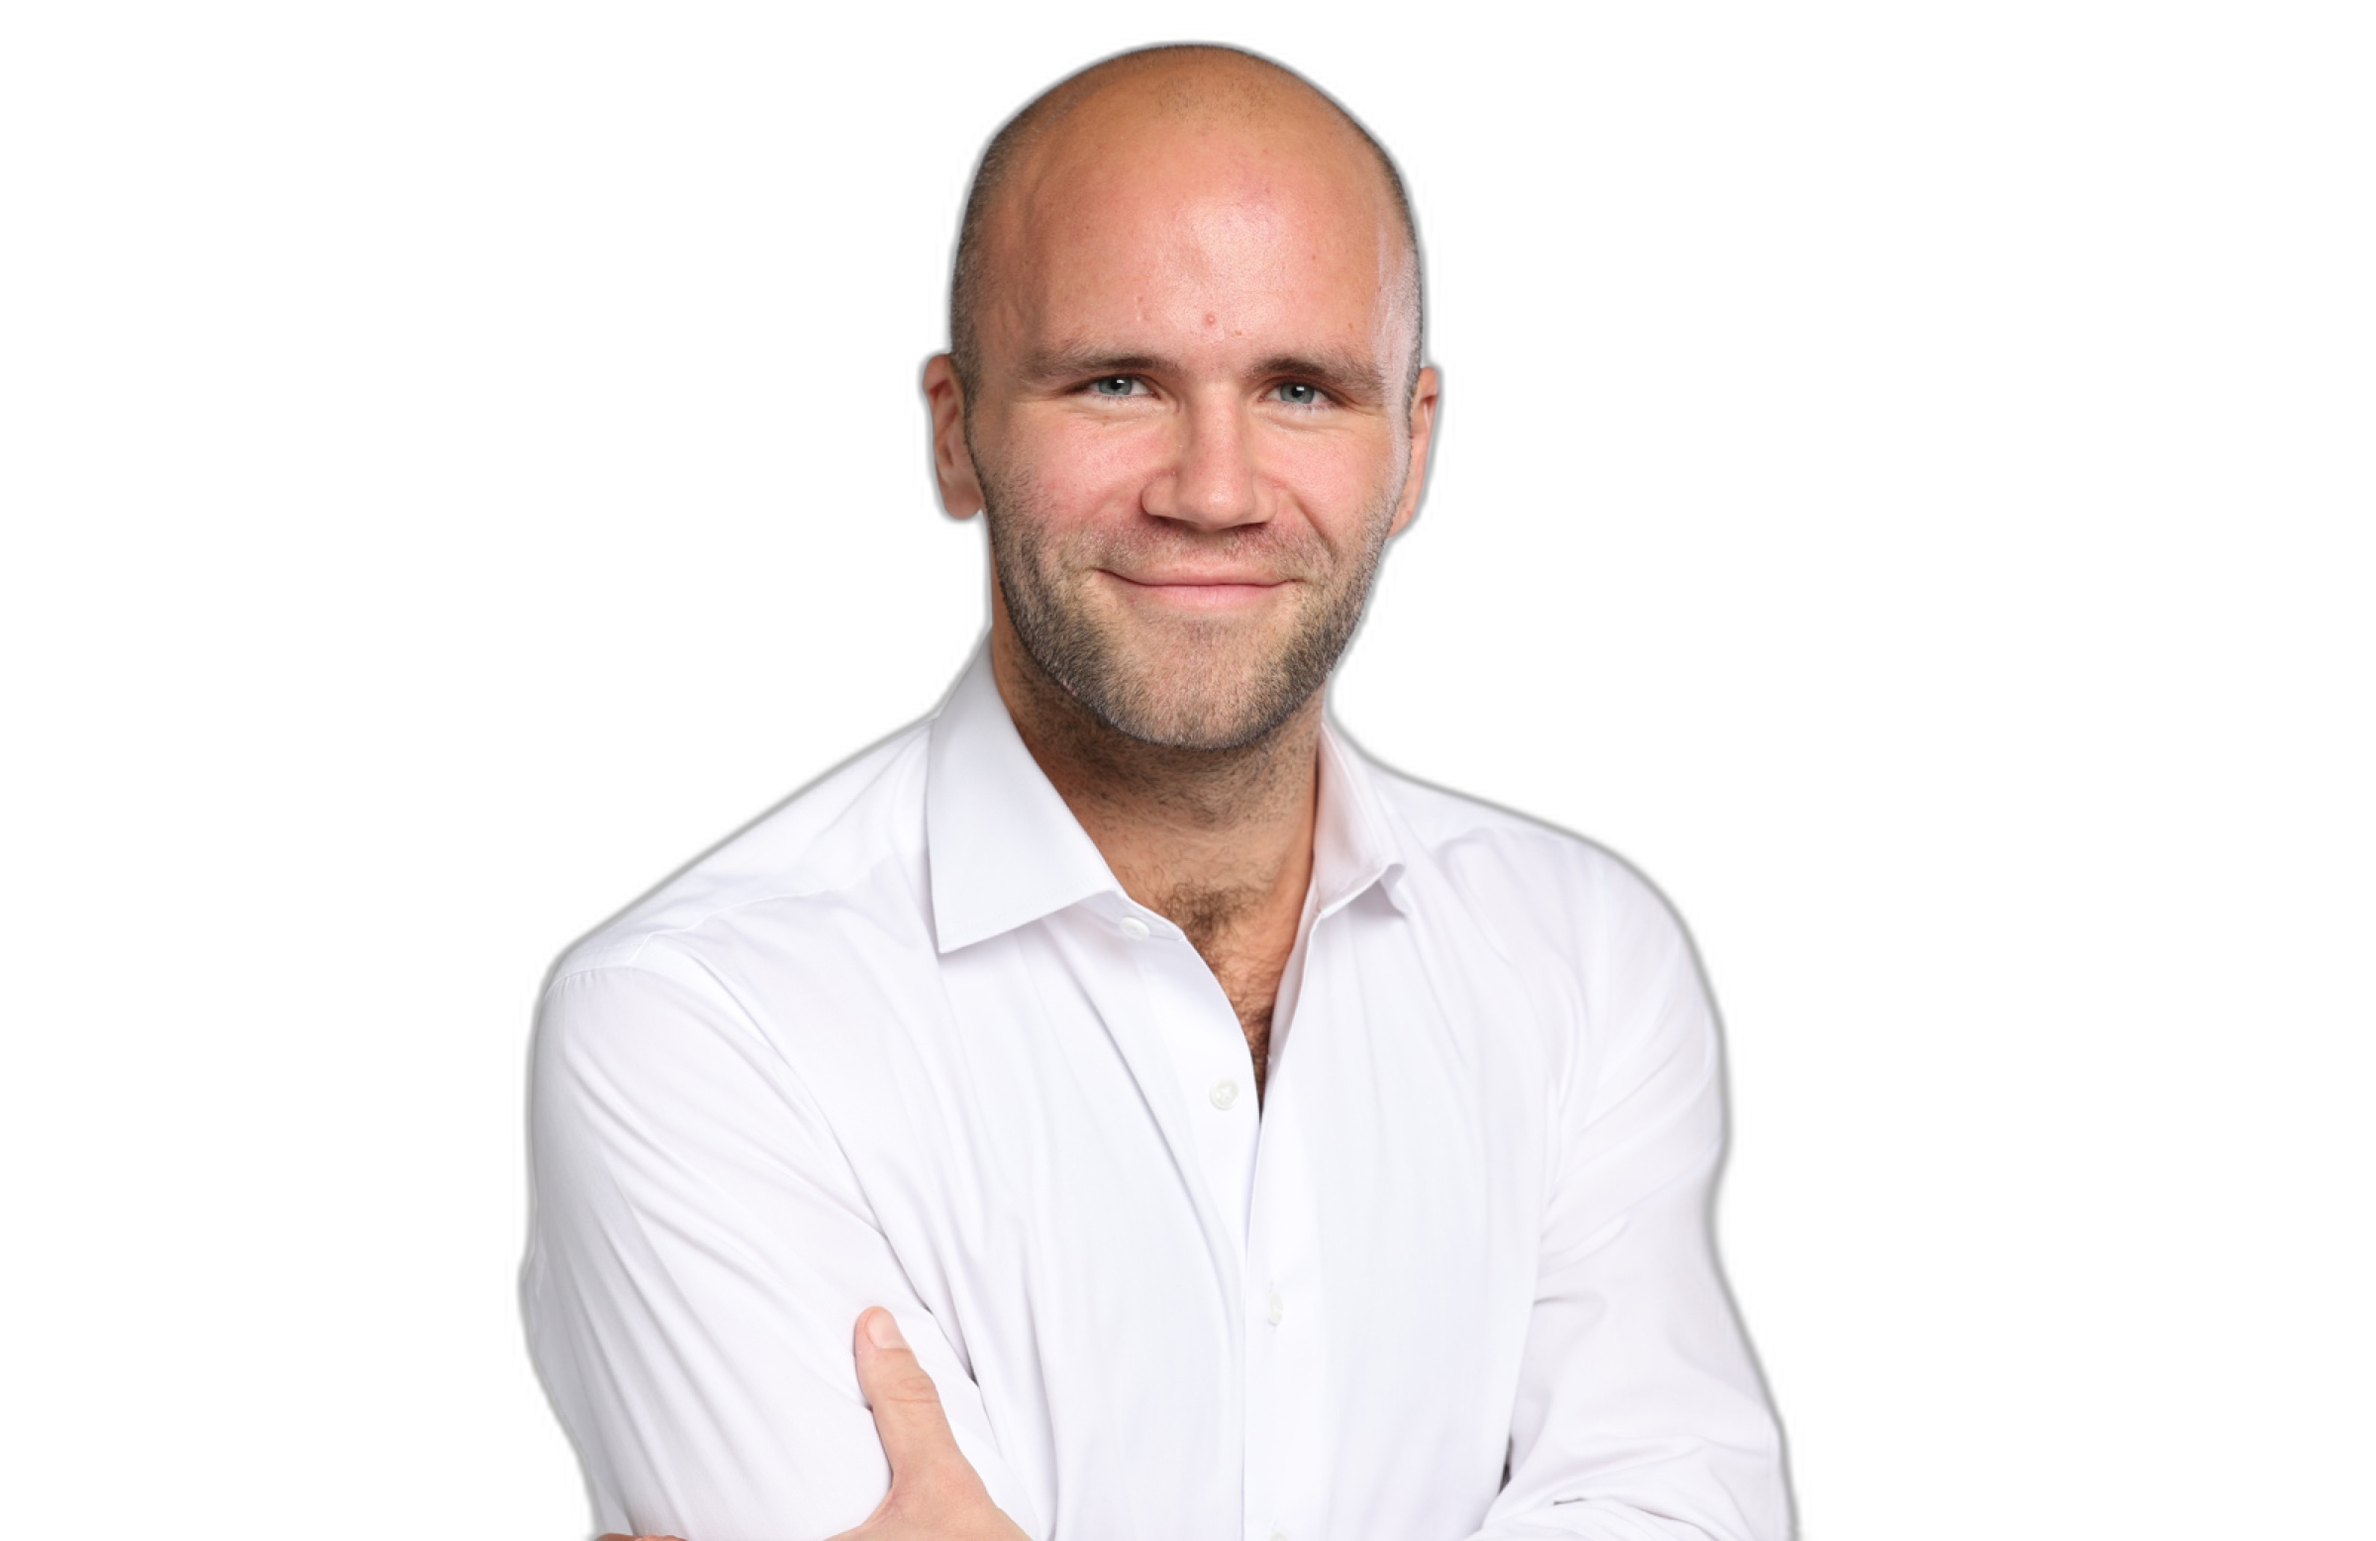
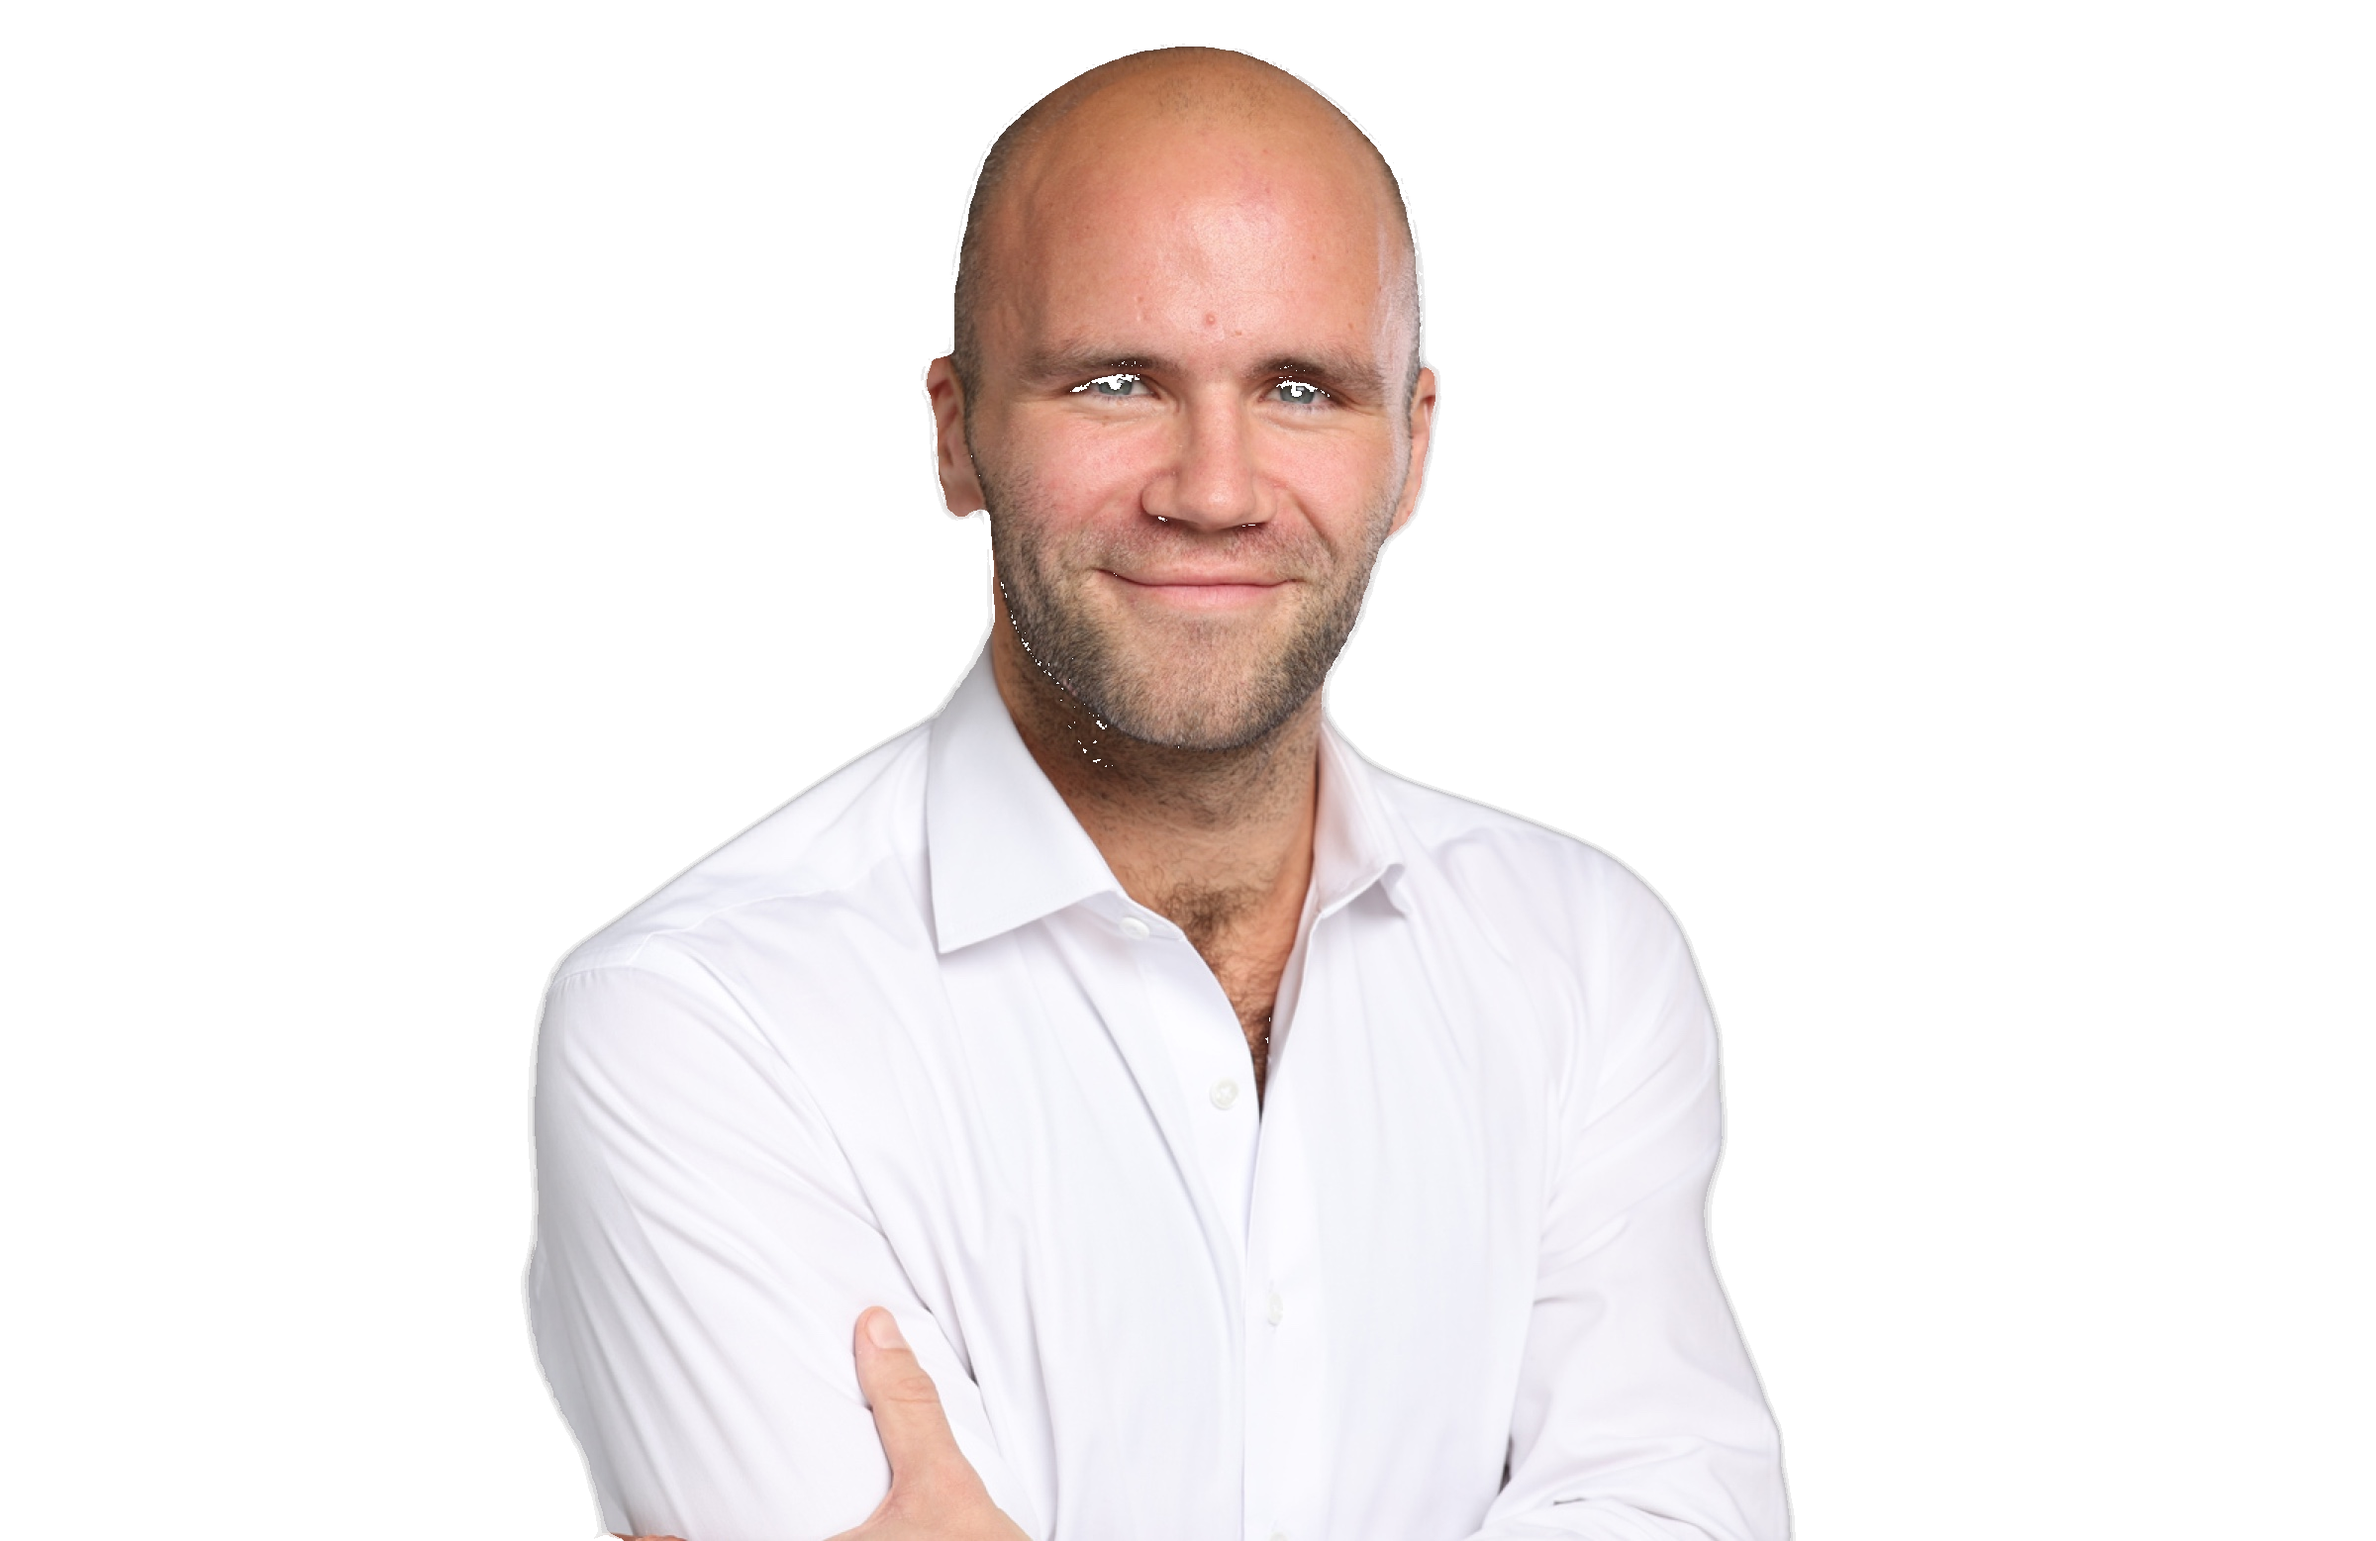
Enlarge About portrait and clean up background removal artifacts
- Increase portrait size from clamp(360px,55vw,720px) to clamp(500px,65vw,900px)
- Defringe dark edge pixels in portrait PNG (recolor to white for clean compositing)
- Increase shapeImageThreshold from 0.1 to 0.5 for cleaner text wrapping

diff --git a/src/components/AboutSection.tsx b/src/components/AboutSection.tsx
@@ -19,11 +19,11 @@ export default function AboutSection() {
             alt="Moritz van Laack – Portrait"
             className="float-left mr-8 mb-4 relative z-10"
             style={{
-              width: 'clamp(360px, 55vw, 720px)',
+              width: 'clamp(500px, 65vw, 900px)',
               height: 'auto',
               shapeOutside: 'url(/images/portrait-nobg.png)',
               shapeMargin: '24px',
-              shapeImageThreshold: '0.1',
+              shapeImageThreshold: '0.5',
             }}
           />
 
